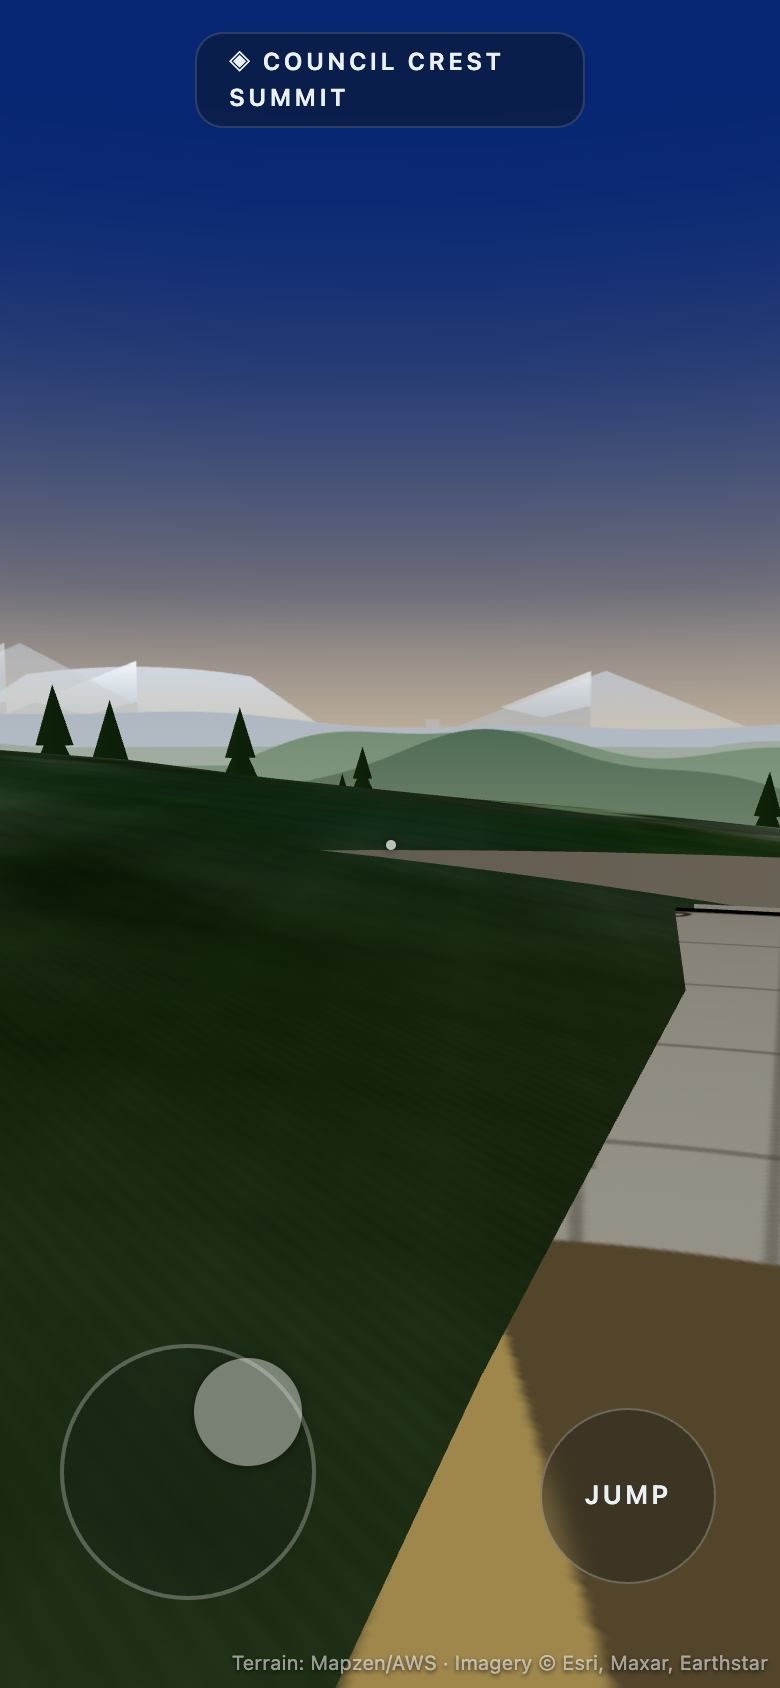
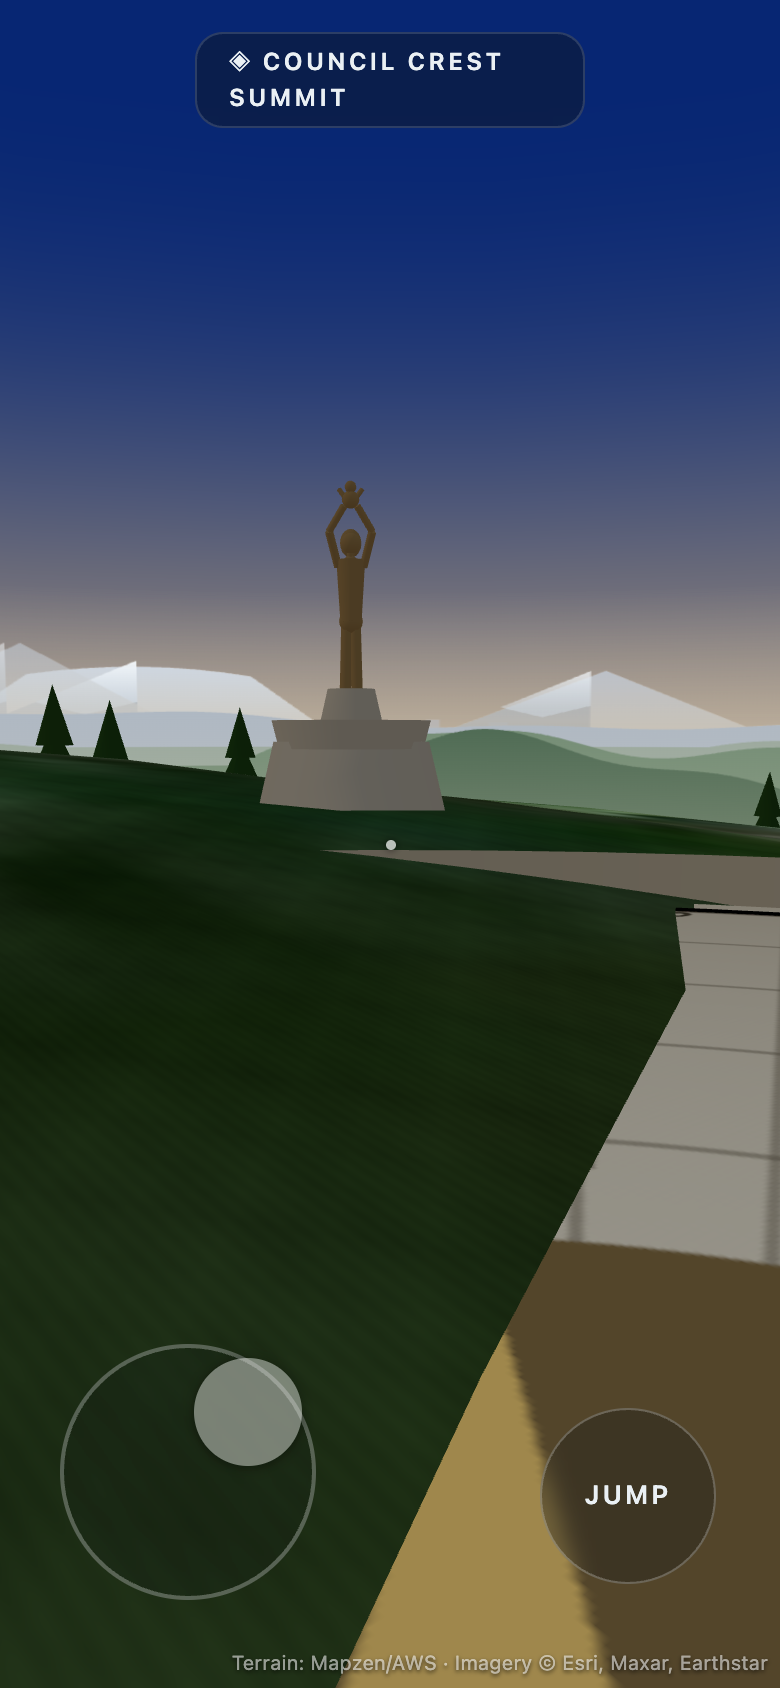
Summit centerpiece: the "Joy" bronze fountain at the spawn plaza (fps.html)
Council Crest's real Littman 1956 sculpture — a woman lifting a child in
raised arms on a triangular granite fountain base — built from merged
primitives (strut limbs, scaled-sphere head/child, tapered torso) as one
warm-bronze mesh, placed just off the plaza rim NE so it frames in the
spawn view, front turned back toward the viewing deck.

Changed region(s): [[0.3385, 0.2773, 0.5846, 0.4929]]

diff --git a/fps.html b/fps.html
@@ -113,6 +113,7 @@ const EYE = 1.7;                            // eye height (m)
 const PLAZA_R = 11;                          // summit viewing-plaza radius (m)
 let   PLAZA_TOP = null;                      // plaza deck world-y (set once the DEM is in)
 const TOWER = { x: 18, z: 120, h: 58 };      // broadcast lattice tower, ~120 m SSE of the summit
+const FOUNTAIN = { bearing: 38, dist: 16 };  // the "Joy" bronze fountain, just off the plaza rim (NE)
 const DEM_Z = 14, SAT_Z = 17;               // z17 imagery (~1m/px) keeps the foreground sharp
 const cosLat0 = Math.cos(LAT0 * Math.PI / 180);
 const dLng = HALF / (111320 * cosLat0);
@@ -558,7 +559,65 @@ function buildSummit() {
     drum.position.set(TOWER.x + Math.cos(ang) * 1.6, tg + TOWER.h * hy, TOWER.z + Math.sin(ang) * 1.6);
     scene.add(drum);
   }
+
+  buildFountain();
 }
+
+// The "Joy" fountain — Council Crest's bronze centerpiece (Frederic Littman, 1956): a woman
+// with her hair swept back, lifting a child in her outstretched raised arms, ~3 m tall on a
+// triangular granite base/drinking fountain (refs: portland.gov, the59club, Wikipedia
+// "Pioneer Woman (Littman)"). Built from primitives merged into one bronze mesh; sits just
+// off the plaza rim where you spawn, its front turned back toward the viewing deck.
+function buildFountain() {
+  const fb = FOUNTAIN.bearing * Math.PI / 180;
+  const fx = Math.sin(fb) * FOUNTAIN.dist, fz = -Math.cos(fb) * FOUNTAIN.dist;
+  const fy = groundAt(fx, fz);
+  const g = new THREE.Group();
+  g.position.set(fx, fy, fz);
+  g.rotation.y = Math.atan2(-fx, -fz);        // turn the figure's front toward the plaza/spawn
+
+  const granite = new THREE.MeshLambertMaterial({ color: '#8c857a' });
+  const ped = new THREE.Mesh(new THREE.CylinderGeometry(1.25, 1.5, 0.95, 3), granite);
+  ped.rotation.y = Math.PI; ped.position.y = 0.475; g.add(ped);    // triangular granite base
+  const basin = new THREE.Mesh(new THREE.CylinderGeometry(1.15, 1.05, 0.4, 28), granite);
+  basin.position.y = 1.05; g.add(basin);                          // shallow fountain bowl
+  const water = new THREE.Mesh(new THREE.CircleGeometry(1.0, 28),
+    new THREE.MeshLambertMaterial({ color: '#5f86a3', transparent: true, opacity: 0.72 }));
+  water.rotateX(-Math.PI / 2); water.position.y = 1.16; g.add(water);
+  const plinth = new THREE.Mesh(new THREE.CylinderGeometry(0.34, 0.5, 0.7, 12), granite);
+  plinth.position.y = 1.35; g.add(plinth);                        // the figure rises from here
+
+  // bronze figure (one merged mesh), feet at the top of the plinth
+  const P = [];
+  const sph = (r, x, y, z, sx, sy, sz) => {
+    const s = new THREE.SphereGeometry(r, 12, 10);
+    if (sx) s.scale(sx, sy, sz); s.translate(x, y, z); P.push(s);
+  };
+  P.push(strut(-0.085, 0, 0, -0.06, 0.98, 0.0, 0.085));          // legs
+  P.push(strut( 0.085, 0, 0,  0.06, 0.98, 0.0, 0.085));
+  sph(0.17, 0, 1.04, 0);                                          // hips
+  const torso = new THREE.CylinderGeometry(0.21, 0.155, 0.86, 14);
+  torso.translate(0, 1.46, 0.02); P.push(torso);                 // tapered torso
+  sph(0.1, 0, 1.86, 0.03);                                       // shoulder knot
+  P.push(strut(0, 1.86, 0.03, 0, 1.99, 0.05, 0.06));             // neck
+  sph(0.145, 0, 2.12, 0.06);                                     // head
+  sph(0.16, 0, 2.14, -0.05, 0.95, 1.25, 0.85);                   // hair swept back
+  P.push(strut(-0.18, 1.8, 0.05, -0.3, 2.24, 0.32, 0.06));       // L upper arm
+  P.push(strut(-0.3, 2.24, 0.32, -0.09, 2.56, 0.46, 0.052));     // L forearm
+  P.push(strut( 0.18, 1.8, 0.05,  0.3, 2.24, 0.32, 0.06));       // R upper arm
+  P.push(strut( 0.3, 2.24, 0.32,  0.09, 2.56, 0.46, 0.052));     // R forearm
+  sph(0.12, 0, 2.64, 0.48);                                      // child held aloft
+  sph(0.08, 0, 2.8, 0.52);
+  P.push(strut(-0.08, 2.66, 0.5, -0.16, 2.78, 0.46, 0.035));     // child's arms reaching out
+  P.push(strut( 0.08, 2.66, 0.5,  0.16, 2.78, 0.46, 0.035));
+  const figure = new THREE.Mesh(mergeGeometries(P),
+    new THREE.MeshLambertMaterial({ color: '#6f5836' }));        // warm bronze
+  figure.position.y = 1.62; g.add(figure);
+
+  scene.add(g);
+  __fountain = g;
+}
+let __fountain = null;
 
 // Seamless, tileable ground-detail grain (luminance only). Periodic value-noise (sine
 // octaves wrap exactly over the tile) plus faint vertical blade streaks → reads as grass/
@@ -977,6 +1036,7 @@ window.__fpsReady = false;
 window.__touchMode = TOUCH;                 // true on coarse-pointer devices (touch HUD shown)
 window.__treeCount = () => TREES;           // forest sanity check for the headless harness
 window.__hasSummit = () => PLAZA_TOP !== null;   // plaza/tower built
+window.__hasFountain = () => !!__fountain;       // "Joy" bronze fountain built
 // audio harness (headless can't hear — these confirm the graph wires up without throwing)
 window.__initAudio = () => { initAudio(); return window.__audioState(); };
 window.__audioState = () => audio ? { state: audio.ctx.state, sampleRate: audio.ctx.sampleRate, masterGain: audio.master.gain.value } : null;

diff --git a/test/shoot-fps.js b/test/shoot-fps.js
@@ -11,6 +11,7 @@ const VIEWS = [
   ['fps-slope.png', -122.7050, 45.4955, 320, -2],        // partway down, looking back up
   ['fps-plaza.png', -122.7076, 45.4983, 90, -42],        // spawn, look down at the compass-rose deck
   ['fps-tower.png', -122.7076, 45.4983, 172, 6],         // summit → the broadcast tower (SSE)
+  ['fps-fountain.png', -122.7076, 45.4983, 38, 7],       // spawn → the "Joy" bronze fountain (NE off the rim)
 ];
 
 (async () => {
@@ -47,6 +48,7 @@ const VIEWS = [
   console.log('audio:', JSON.stringify(audio));
   console.log('trees:', await page.evaluate(() => window.__treeCount && window.__treeCount()));
   console.log('summit:', await page.evaluate(() => window.__hasSummit && window.__hasSummit()));
+  console.log('fountain:', await page.evaluate(() => window.__hasFountain && window.__hasFountain()));
 
   for (const [file, lng, lat, heading, pitch] of VIEWS) {
     await page.evaluate((lng, lat, heading, pitch) => window.__look(lng, lat, heading, pitch),

diff --git a/NOTES.md b/NOTES.md
@@ -54,6 +54,25 @@ hooks instead: `window.__pauseSim=true; window.__step(1/60)` in a loop, read
   hill. NOT YET DONE — do this before trees/landmarks; record refs used here.
 
 ## Iteration log
+- **#13 (19:02–19:14)** "JOY" FOUNTAIN — Council Crest's bronze centerpiece, now a real
+  landmark at the spawn plaza (backlog #3 polish). **Refs used:** WebSearch → portland.gov +
+  the59club blog + Wikipedia "Pioneer Woman (Littman)" + portlandbridges photos — confirmed
+  Frederic Littman's 1956 welded-bronze drinking fountain: a standing woman, hair swept back,
+  **lifting a child in her outstretched raised arms**, ~10 ft (3 m) on a **triangular granite
+  base**. Built `buildFountain()`: a triangular granite pedestal (`CylinderGeometry(...,3)` =
+  3-sided prism), a shallow basin bowl + a translucent water disc, a center plinth, and the
+  bronze figure as ONE merged mesh — legs/arms/neck via the existing `strut(a,b,r)` helper,
+  hips/head/child/hair as scaled spheres, a tapered-cylinder torso — `mergeGeometries` →
+  `MeshLambertMaterial #6f5836` (warm bronze). Placed just off the plaza rim at bearing 38°
+  (NE), 16 m out, so it's framed in the default spawn view; `group.rotation.y =
+  atan2(-fx,-fz)` turns the figure's front (built facing +z) back toward the viewing deck.
+  Verified headless (fps-fountain + a closer custom shot): the woman-lifting-child silhouette
+  reads clearly against the Cascade haze, base/bowl legible, `__hasFountain` true, 11767 trees,
+  summit true, no page/console errors. Gotcha: the figure is built facing +z, so the only
+  orientation knob is `rotation.y`; everything else is local-space offsets in metres with feet
+  at the group's `figure.position.y` (1.62, top of the plinth). Test hook `__hasFountain`;
+  harness shoots `fps-fountain.png` (spawn → NE, pitch 7). Possible polish: actual jetting
+  water particles, a darker patina with green oxidation streaks, finer figure modeling.
 - **#12 (18:48–18:58)** NEAR-GROUND DETAIL — the flat-green eye-level tell (backlog #2;
   Joel's "flat green" note). The z17 satellite drape minifies to a smooth dark-green wash
   underfoot; now a **procedural luminance grain** modulates it, strong underfoot and faded
@@ -265,7 +284,10 @@ hooks instead: `window.__pauseSim=true; window.__step(1/60)` in a loop, read
    *(#11, on-summit landmarks):* Portland.gov + placespages + Wikipedia + RadioDiscussions/Yelp
    — confirmed the circular compass-rose plaza, seat wall, peak-ID plaques, Littmann bronze
    fountain, and the Healy Heights/Stonehenge broadcast tower S + a city radio tower in-park.
-   Still open: the bronze fountain statue as real geometry; sharper plaza paver/inlay texture.
+   *(#13, the fountain):* WebSearch → portland.gov + the59club + Wikipedia "Pioneer Woman
+   (Littman)" + portlandbridges — Littman's 1956 bronze: woman, hair swept back, lifting a
+   child in raised arms, ~3 m on a triangular granite base. Still open: sharper plaza paver/
+   inlay texture; jetting fountain water.
 0b. ~~**Richer illustrated backdrop**~~ — DONE in #9 (painted panorama cylinder: real-bearing
    Cascade peaks + layered ridgelines, Hood is the hero). Possible polish: clouds/alpenglow,
    parallax, sharper peak rock/snow texture, time-of-day tint matching the sun.
@@ -278,10 +300,11 @@ hooks instead: `window.__pauseSim=true; window.__step(1/60)` in a loop, read
    the satellite drape, strong underfoot, faded by ~180 m, hue-neutral & world-space tiled).
    Possible polish: a matching ground normal map for relief; wind-stirred grass billboards on
    the summit lawn; tint the grain very slightly green/tan to push the grass vs dirt read.
-3. ~~**Summit landmarks**~~ — DONE in #11 (compass-rose viewing plaza you spawn on, rays at
-   true peak bearings + a broadcast lattice tower S). Possible polish: the Littmann bronze
-   fountain statue as geometry, sharper paver/brass inlay texture, a low railing at the rim,
-   the bigger Healy Heights tower cluster on the backdrop, clear a few trees behind the tower.
+3. ~~**Summit landmarks**~~ — DONE in #11 (compass-rose viewing plaza + broadcast lattice
+   tower S) and #13 (the "Joy" bronze fountain — woman lifting a child — at the spawn plaza).
+   Possible polish: jetting water on the fountain + a green-oxidation patina, sharper plaza
+   paver/brass inlay texture, a low railing at the rim, the bigger Healy Heights tower cluster
+   on the backdrop, clear a few trees behind the tower.
 4. **Boundary feel** — current edge is a silent radial clamp. Add thickening fog + a
    "turn back" cue + gentler push so the level edge reads intentional.
 5. ~~**Touch controls for fps.html**~~ — DONE in #8 (analog stick + look drag + jump,